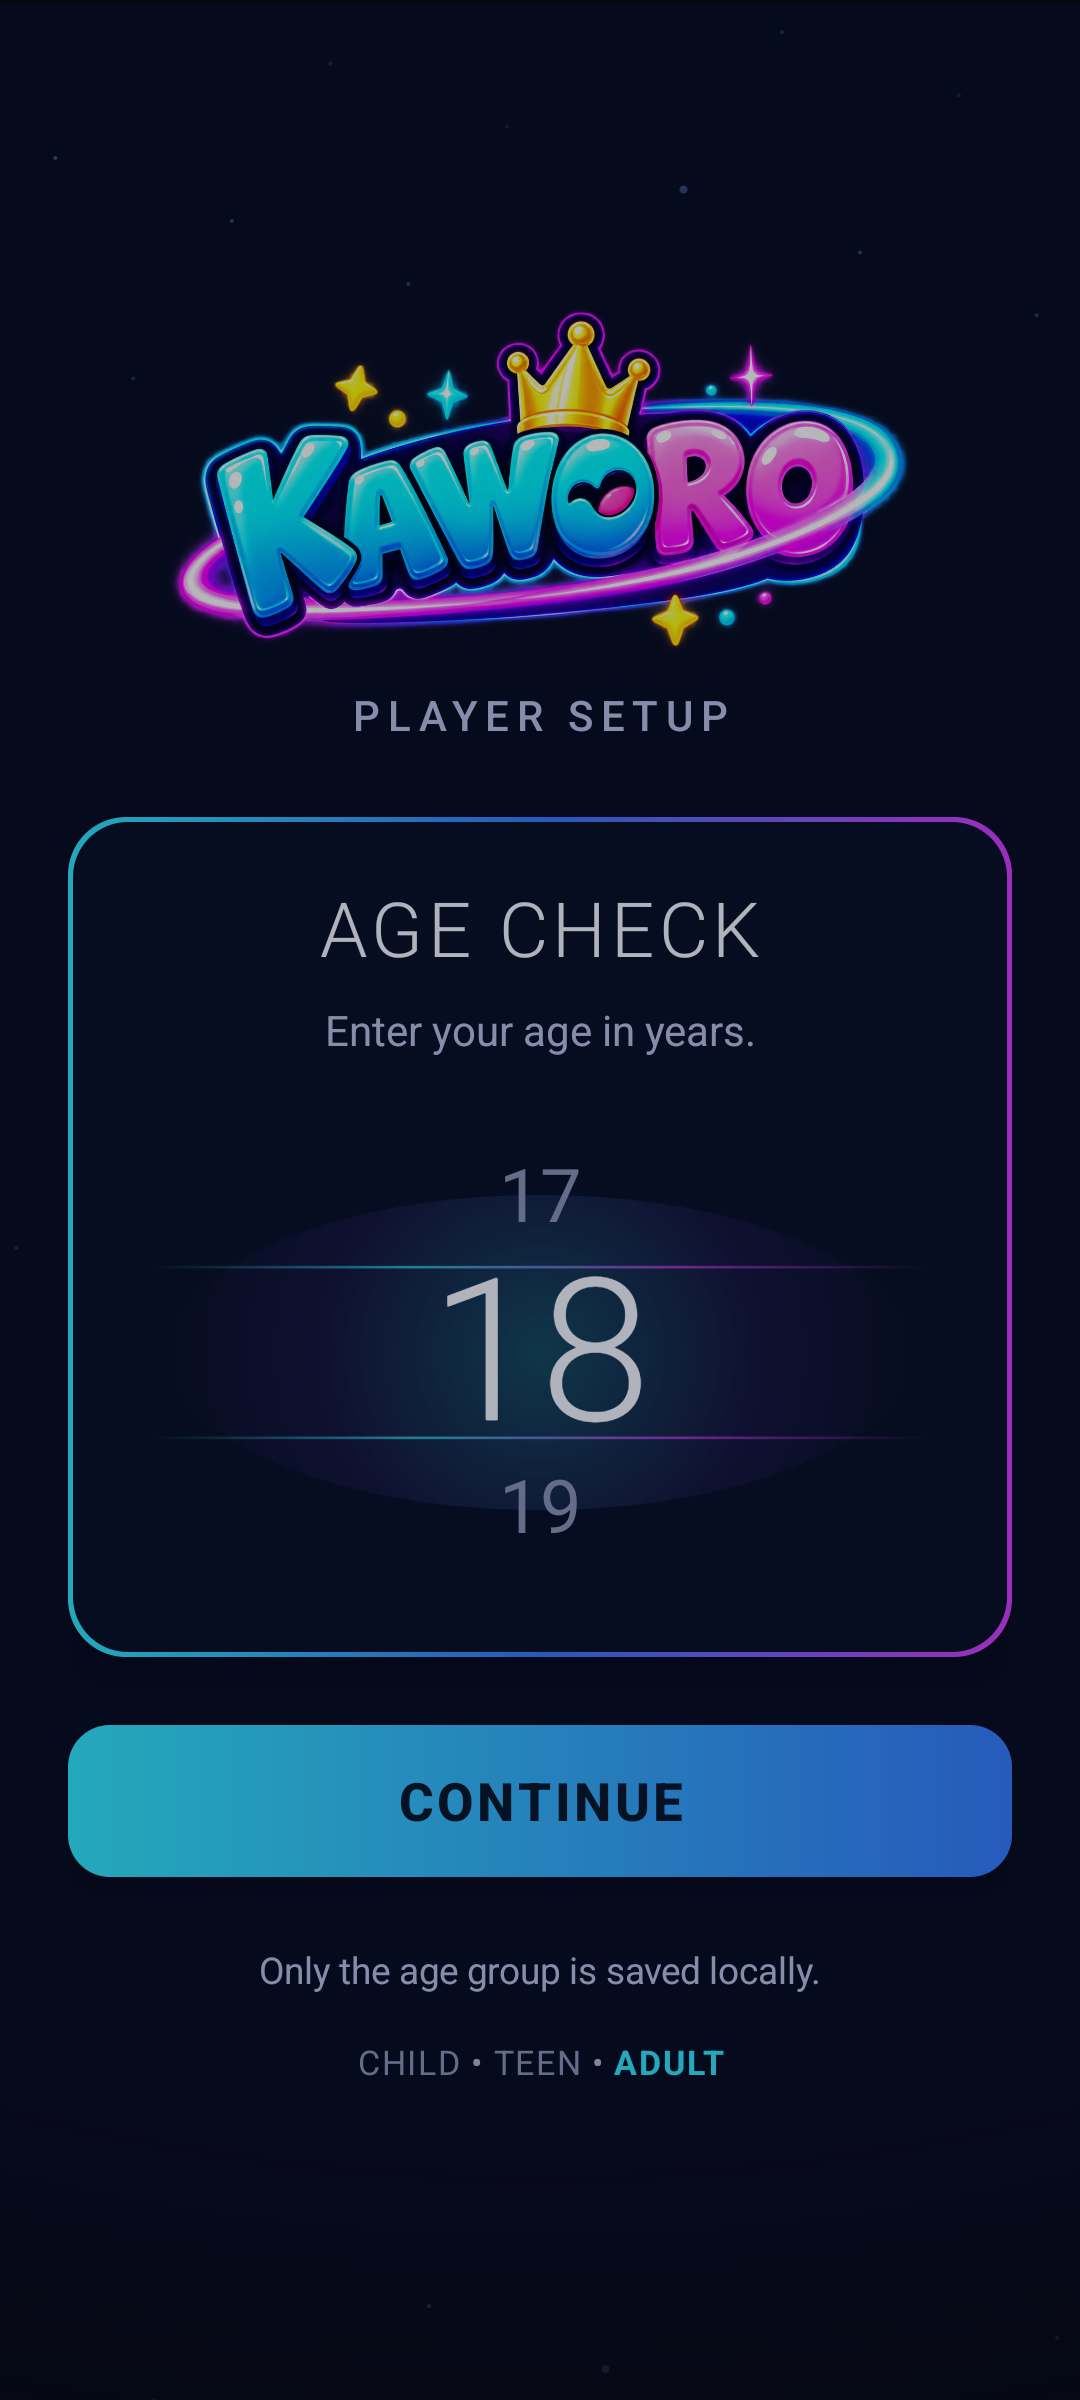
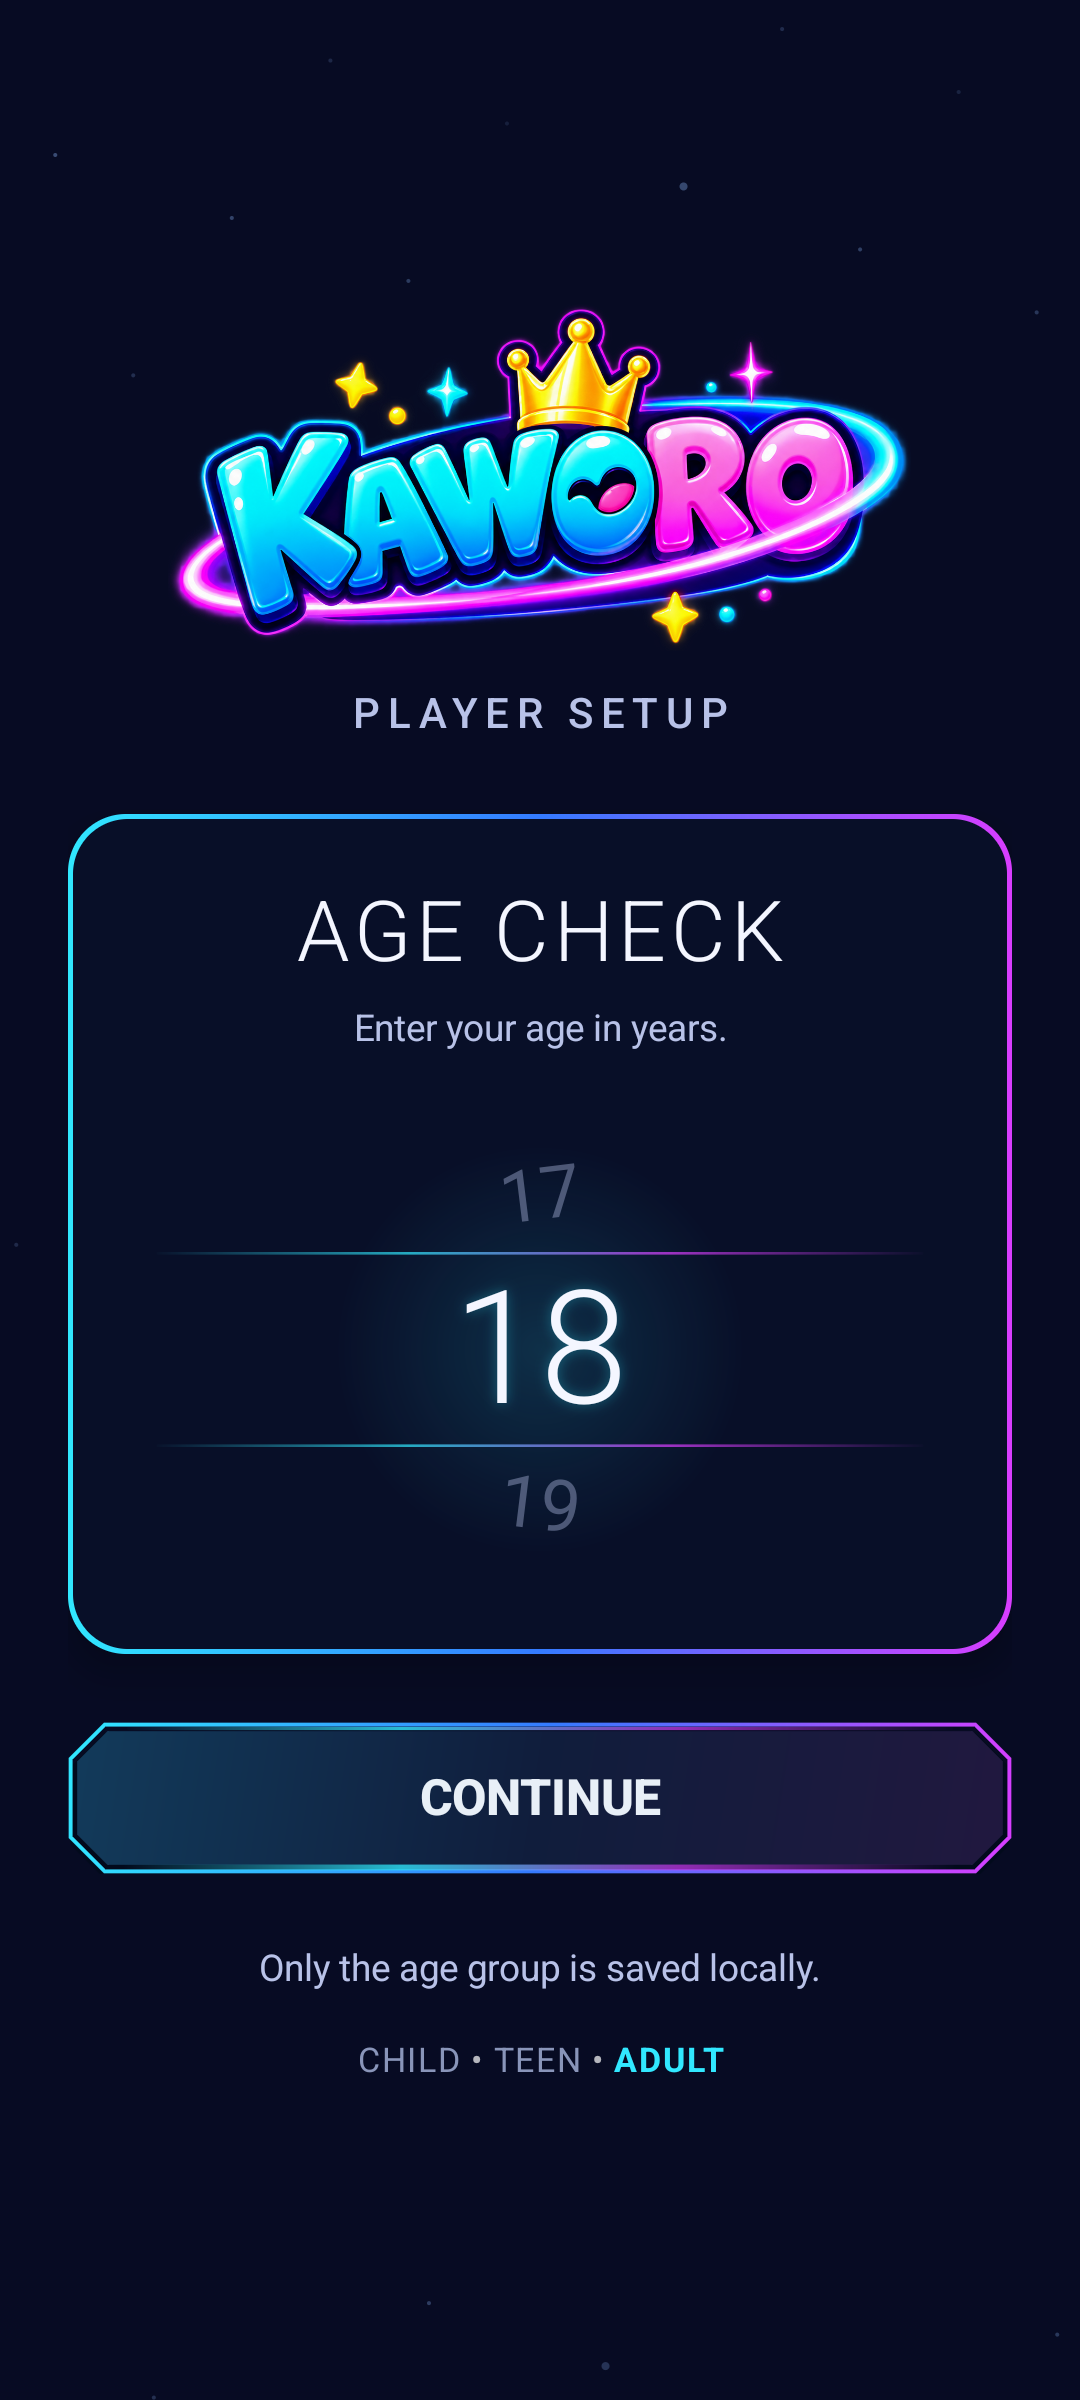
Capture Age Check across phone and tablet sizes

diff --git a/app/src/main/java/com/moonsolstudios/kavvoro/ui/screens/agecheck/AgeCheckScreenView.kt b/app/src/main/java/com/moonsolstudios/kavvoro/ui/screens/agecheck/AgeCheckScreenView.kt
@@ -144,7 +144,7 @@ class AgeCheckScreenView @JvmOverloads constructor(
 
         val formColumn = LinearLayout(context).apply {
             orientation = LinearLayout.VERTICAL
-            gravity = Gravity.CENTER_HORIZONTAL
+            gravity = Gravity.CENTER
         }
         formColumn.addView(makeAgeCard(compact = true), linearParams(height = dp(288f)))
         formColumn.addView(continueButton(), linearParams(height = dp(58f)).apply { topMargin = dp(18f) })

diff --git a/tools/screenshot-capture/retake_age_check_landscape.py b/tools/screenshot-capture/retake_age_check_landscape.py
@@ -1,0 +1,98 @@
+"""Capture the native tablet landscape Age Check layout."""
+
+from __future__ import annotations
+
+import subprocess
+import time
+
+from capture_support import ADB, APK, PACKAGE, PROJECT_ROOT, restore_emulator_display
+from retake_age_check_11 import (
+    backup_age_profile,
+    capture_png,
+    has_age_picker_accessibility_node,
+    image_size,
+    is_age_check,
+    remove_age_profile,
+    restore_age_profile,
+    run,
+)
+from retake_home_landscape import dismiss_fullscreen_prompt_if_shown
+
+
+WIDTH = 1920
+HEIGHT = 1200
+DENSITY = 240
+OUTPUT = PROJECT_ROOT / "screenshots" / "age-check" / "tablet-landscape-1920x1200-240dpi.png"
+
+
+def wait_for_landscape_viewport(timeout: float = 20.0) -> None:
+    deadline = time.monotonic() + timeout
+    last_seen: object = None
+    stable_frames = 0
+    while time.monotonic() < deadline:
+        try:
+            last_seen = image_size(capture_png())
+            if last_seen == (WIDTH, HEIGHT):
+                stable_frames += 1
+                if stable_frames >= 3:
+                    return
+            else:
+                stable_frames = 0
+        except Exception as error:
+            last_seen = f"error: {error}"
+            stable_frames = 0
+        time.sleep(0.3)
+    raise RuntimeError(f"Landscape viewport did not settle at {WIDTH}x{HEIGHT}; last_seen={last_seen}")
+
+
+def wait_for_landscape_age_check(timeout: float = 25.0) -> bytes:
+    deadline = time.monotonic() + timeout
+    next_accessibility_check = 0.0
+    accessibility_node_found = False
+    while time.monotonic() < deadline:
+        png = capture_png()
+        if image_size(png) != (WIDTH, HEIGHT):
+            time.sleep(0.3)
+            continue
+        now = time.monotonic()
+        if is_age_check(png) and now >= next_accessibility_check:
+            accessibility_node_found = has_age_picker_accessibility_node()
+            next_accessibility_check = time.monotonic() + 2.0
+        if is_age_check(png) and accessibility_node_found:
+            return png
+        time.sleep(0.3)
+    raise RuntimeError("Tablet landscape Age Check was not visible before the screenshot timeout")
+
+
+def main() -> None:
+    OUTPUT.parent.mkdir(parents=True, exist_ok=True)
+    run("install", "-r", str(APK), timeout=90.0)
+    original_age_profile = backup_age_profile()
+    remove_age_profile()
+    try:
+        run("shell", "settings", "put", "system", "accelerometer_rotation", "0")
+        # Pixel Tablet's natural display orientation is landscape; keep the
+        # natural rotation so the full-sensor activity receives a landscape config.
+        run("shell", "settings", "put", "system", "user_rotation", "0")
+        run("shell", "wm", "size", f"{WIDTH}x{HEIGHT}")
+        run("shell", "wm", "density", str(DENSITY))
+        wait_for_landscape_viewport()
+        run("shell", "am", "force-stop", PACKAGE)
+        run("shell", "am", "start", "-n", f"{PACKAGE}/.MainActivity")
+        time.sleep(3.0)
+        dismiss_fullscreen_prompt_if_shown()
+        screenshot = wait_for_landscape_age_check()
+        OUTPUT.write_bytes(screenshot)
+        print(f"PASS {OUTPUT.name} ({WIDTH}x{HEIGHT}@{DENSITY}dpi), {len(screenshot)} bytes")
+    finally:
+        try:
+            restore_emulator_display(lambda *args: run(*args))
+        finally:
+            try:
+                restore_age_profile(original_age_profile)
+            finally:
+                run("shell", "rm", "-f", "/sdcard/kavvoro_age_check.xml", "/sdcard/kavvoro_window.xml")
+
+
+if __name__ == "__main__":
+    main()

diff --git a/tools/screenshot-capture/retake_age_check_11.py b/tools/screenshot-capture/retake_age_check_11.py
@@ -20,6 +20,37 @@ def run(*args: str, timeout: float = 45.0) -> subprocess.CompletedProcess[bytes]
     )
 
 
+def backup_age_profile() -> bytes | None:
+    try:
+        return run("exec-out", "run-as", PACKAGE, "cat", "shared_prefs/privacy_profile.xml").stdout
+    except subprocess.CalledProcessError as error:
+        if b"No such file" in error.stdout:
+            return None
+        raise
+
+
+def remove_age_profile() -> None:
+    run("shell", "am", "force-stop", PACKAGE)
+    run("shell", "run-as", PACKAGE, "rm", "-f", "shared_prefs/privacy_profile.xml")
+
+
+def restore_age_profile(profile: bytes | None) -> None:
+    if profile is None:
+        return
+    command = (
+        f"run-as {PACKAGE} sh -c "
+        f"'cat > /data/user/0/{PACKAGE}/shared_prefs/privacy_profile.xml'"
+    )
+    subprocess.run(
+        [ADB, "shell", command],
+        check=True,
+        input=profile,
+        stdout=subprocess.PIPE,
+        stderr=subprocess.STDOUT,
+        timeout=20.0,
+    )
+
+
 def capture_png() -> bytes:
     return subprocess.check_output(
         [ADB, "exec-out", "screencap", "-p"], timeout=60.0
@@ -32,7 +63,9 @@ def image_size(png: bytes) -> tuple[int, int]:
 
 
 def wait_for_viewport(width: int, height: int) -> None:
-    deadline = time.monotonic() + 15.0
+    # Large tablet frames can take several seconds each to capture, so allow
+    # enough time to observe multiple stable frames at the highest resolution.
+    deadline = time.monotonic() + 45.0
     last_size = None
     stable_frames = 0
     while time.monotonic() < deadline:
@@ -138,6 +171,8 @@ def wait_for_age_check(width: int, height: int) -> bytes:
 def main() -> None:
     OUTPUT.mkdir(parents=True, exist_ok=True)
     run("install", "-r", str(APK), timeout=90.0)
+    original_age_profile = backup_age_profile()
+    remove_age_profile()
     try:
         run("shell", "settings", "put", "system", "accelerometer_rotation", "0")
         run("shell", "settings", "put", "system", "user_rotation", "1")
@@ -157,13 +192,18 @@ def main() -> None:
                 run("shell", "wm", "size", f"{width}x{height}")
             wait_for_viewport(output_width, output_height)
             run("shell", "am", "force-stop", PACKAGE)
-            run("shell", "pm", "clear", PACKAGE)
             run("shell", "am", "start", "-n", f"{PACKAGE}/.MainActivity")
             time.sleep(2.0)
             dismiss_fullscreen_prompt_if_shown()
             (OUTPUT / output_name).write_bytes(wait_for_age_check(output_width, output_height))
     finally:
-        restore_emulator_display(lambda *args: run(*args))
+        try:
+            restore_emulator_display(lambda *args: run(*args))
+        finally:
+            try:
+                restore_age_profile(original_age_profile)
+            finally:
+                run("shell", "rm", "-f", "/sdcard/kavvoro_age_check.xml", "/sdcard/kavvoro_window.xml")
 
 
 if __name__ == "__main__":

diff --git a/tools/screenshot-capture/README.md b/tools/screenshot-capture/README.md
@@ -4,7 +4,7 @@ Acesta este folderul permanent pentru scripturile reproductibile de captură ale
 aplicației.
 
 `capture_support.py` este sursa comună pentru calea SDK-ului Android, package,
-APK și matricea celor 11 rezoluții. SDK-ul se rezolvă din `ANDROID_HOME` sau
+APK și matricea celor 11 profiluri portret. SDK-ul se rezolvă din `ANDROID_HOME` sau
 `ANDROID_SDK_ROOT`, fără căi absolute către o stație de lucru.
 
 Păstrăm aici doar automatizări care pot fi reluate pe alt calculator. Scripturile
@@ -21,7 +21,22 @@ python .\tools\screenshot-capture\retake_age_check_11.py
 
 Scriptul capturează setul standard actual în `screenshots/age-check`, în
 portrait pe telefoane și tablete. Captura verifică și nodul accesibil al
-selectorului, ca să nu accepte din greșeală ecranul Home.
+selectorului, ca să nu accepte din greșeală ecranul Home. Pentru a proteja
+datele existente, scriptul salvează temporar doar `privacy_profile.xml`, șterge
+doar această preferință cât timp capturează Age Check și o restaurează la final;
+nu mai execută `pm clear`.
+
+Pentru layout-ul nativ de tabletă landscape, pornește AVD-ul `Pixel_Tablet`, apoi
+selectează-l explicit și rulează:
+
+```powershell
+$env:ANDROID_SERIAL = "emulator-5556"
+python .\tools\screenshot-capture\retake_age_check_landscape.py
+```
+
+Această captură verifică un viewport real landscape de 1920×1200 px la 240 dpi,
+inclusiv nodul accesibil al selectorului. Setările de afișare și preferința de
+vârstă sunt restaurate la final.
 
 ## Captura Settings
 

diff --git a/README.md b/README.md
@@ -92,9 +92,13 @@ the capture policy and repeatable scripts.
 | --- | --- |
 | <img src="screenshots/missions/phone-1080x2400-420dpi.png" width="200" alt="Kavvoro daily missions at 1080 by 2400 pixels"> | <img src="screenshots/missions/rift-challenges-phone-1080x2400-420dpi.png" width="200" alt="Kavvoro Rift Challenges at 1080 by 2400 pixels"> |
 
-**Age Check — phone 1080×2400 px at 420 dpi:**
+**Age Check — 11 portrait profiles plus tablet landscape:**
 
-<img src="screenshots/age-check/phone-1080x2400-420dpi.png" width="200" alt="Kavvoro Age Check at 1080 by 2400 pixels">
+| Phone portrait | Tablet portrait | Tablet landscape |
+| --- | --- | --- |
+| <img src="screenshots/age-check/phone-1080x2400-420dpi.png" width="200" alt="Kavvoro Age Check on a phone at 1080 by 2400 pixels"> | <img src="screenshots/age-check/tablet-1600x2560-320dpi.png" width="200" alt="Kavvoro Age Check on a tablet at 1600 by 2560 pixels"> | <img src="screenshots/age-check/tablet-landscape-1920x1200-240dpi.png" width="320" alt="Kavvoro Age Check in native tablet landscape at 1920 by 1200 pixels"> |
+
+[View all 12 Age Check device captures](screenshots/age-check/).
 
 **Home landscape, tablet 1920×1200 px at 240 dpi:**
 

diff --git a/screenshots/README.md b/screenshots/README.md
@@ -12,9 +12,11 @@ Missions includes phone portrait captures at 1080×2400 px / 420 dpi for Daily
 Missions and persistent Rift Challenges. They show the category tabs, mission
 progress, and claimable coin rewards.
 
-Age Check screenshots show phone and tablet portrait layouts; the saved profile
-contains only the resolved age group. Home landscape remains a separate native
-tablet profile.
+Age Check contains the full 11-profile portrait matrix: five phone sizes and
+six tablet sizes, plus a dedicated native tablet landscape capture at
+1920×1200 px / 240 dpi. The saved profile contains only the resolved age group.
+The portrait and landscape capture scripts temporarily remove and then restore
+only the age-profile preference; they preserve the rest of the app data.
 
 Reguli:
 
